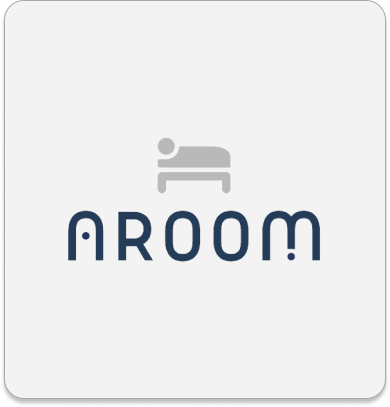
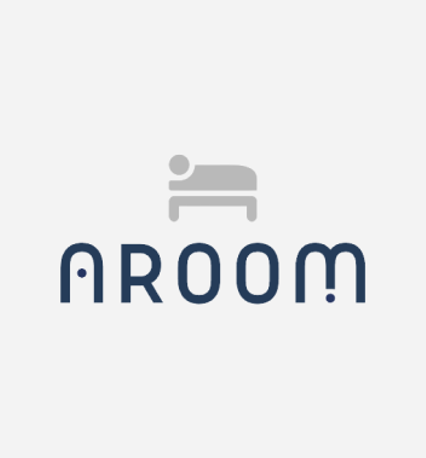
Feat: default image변경, 예약 confirm 추가

diff --git a/src/pages/placeDetail/PlaceDetail.page.tsx b/src/pages/placeDetail/PlaceDetail.page.tsx
@@ -1,5 +1,4 @@
 import { Header } from '@components/common/Header';
-// import { Footer } from '@components/common/Footer';
 import styled from 'styled-components';
 import { GrLinkPrevious } from 'react-icons/gr';
 import { theme } from '@styles/theme';
@@ -15,6 +14,8 @@ import { Loading } from '@components/common/Loading';
 import { useLocation } from 'react-router-dom';
 import { formatDate } from '@utils/useFormatDate';
 import { NeedLogin } from '@components/common/NeedLogin';
+import hotelDefaultImg from '@assets/images/hotelDefaultImg.png';
+import hotelDefaultImg2 from '@assets/images/hotelDefaultImg2.png';
 
 export interface IAccommodations {
   id: number;
@@ -127,7 +128,6 @@ export const PlaceDetail: React.FC = () => {
       if (isChecked) {
         await axios.post(
           `${process.env.REACT_APP_SERVER}/v1/accommodations/${id}/favorite`,
-          {},
           {
             headers: {
               'Content-Type': 'application/json',
@@ -160,7 +160,6 @@ export const PlaceDetail: React.FC = () => {
   //장바구니로 post
   const addCart = async (roomId: number) => {
     const confirm = window.confirm('장바구니에 추가하시겠습니까?');
-    // console.log(startDate, endDate);
     if (confirm) {
       try {
         const res = await axios.post(
@@ -206,7 +205,11 @@ export const PlaceDetail: React.FC = () => {
             </StyledSpan>
           </StyledBar>
 
-          <StyledImg src={accommodation.accommodationUrl} />
+          {accommodation.accommodationUrl ? (
+            <StyledImg src={accommodation.accommodationUrl} />
+          ) : (
+            <StyledImg src={hotelDefaultImg} alt="사진이 없습니다." />
+          )}
 
           <StyledMainTitle>
             {accommodation.accommodationName}
@@ -215,6 +218,7 @@ export const PlaceDetail: React.FC = () => {
               onClick={() => {
                 setIsChecked((prev) => {
                   const newChecked = !prev;
+                  console.log(newChecked);
                   toggleFavorite(id, newChecked);
                   return newChecked;
                 });
@@ -246,7 +250,14 @@ export const PlaceDetail: React.FC = () => {
           accommodation.roomInfoList.length > 0 ? (
             accommodation.roomInfoList.map((room) => (
               <StyledSubContainer key={room.id}>
-                <StyledDetailImg src={room.url} />
+                {room.url ? (
+                  <StyledDetailImg src={room.url} />
+                ) : (
+                  <StyledDetailImg
+                    src={hotelDefaultImg2}
+                    alt="사진이 없습니다."
+                  />
+                )}
                 <StyledDetail>
                   <StyledWrapper>
                     <StyledRoomTitle>{room.type}</StyledRoomTitle>

diff --git a/src/pages/reservation/Reservation.page.tsx b/src/pages/reservation/Reservation.page.tsx
@@ -32,37 +32,45 @@ export const Reservation: React.FC = () => {
   }, [location.state]);
 
   const handlePayment = async () => {
-    if (roomInfo && agreement) {
-      const data = {
-        roomList: [
-          {
-            roomId: roomInfo.id,
-            startDate: startDate,
-            endDate: endDate,
-            price: roomInfo.price,
-          },
-        ],
-        personnel,
-        agreement,
-        isFromCart: false, //장바구니 아닐땐 false
-      };
+    if (!roomInfo || !agreement) {
+      return;
+    }
 
-      try {
-        const response = await axios.post(
-          ` ${process.env.REACT_APP_SERVER}/v1/reservations`,
-          data,
-          {
-            headers: {
-              'Content-Type': 'application/json',
-              'Access-Token': accessToken,
-            },
+    const data = {
+      roomList: [
+        {
+          roomId: roomInfo.id,
+          startDate: startDate,
+          endDate: endDate,
+          price: roomInfo.price,
+        },
+      ],
+      personnel,
+      agreement,
+      isFromCart: false,
+    };
+
+    const confirm = window.confirm('결제 하시겠습니까?');
+    if (!confirm) {
+      return;
+    }
+
+    try {
+      const response = await axios.post(
+        `${process.env.REACT_APP_SERVER}/v1/reservations`,
+        data,
+        {
+          headers: {
+            'Content-Type': 'application/json',
+            'Access-Token': accessToken,
           },
-        );
-        console.log(response.data);
-        navigate('/confirm', { state: { data: response.data } });
-      } catch (error) {
-        console.error('결제 실패', error);
-      }
+        },
+      );
+
+      console.log(response.data);
+      navigate('/confirm', { state: { data: response.data } });
+    } catch (error) {
+      console.error('결제 실패', error);
     }
   };
 

diff --git a/src/pages/confirm/Confirm.page.tsx b/src/pages/confirm/Confirm.page.tsx
@@ -11,6 +11,7 @@ import {
   StyledBtnText,
   StyledButtonWrapper,
 } from '@pages/reservation/Reservation.page';
+import hotelDefaultImg from '@assets/images/hotelDefaultImg.png';
 
 interface RoomList {
   roomId: number;
@@ -75,7 +76,11 @@ export const Confirm: React.FC = () => {
             숙소 예약번호: {room.roomReservationNumber}
           </StyleDescription>
           <StyleSubWrapper>
-            <StyledMiniImage src="https://yaimg.yanolja.com/v5/2022/10/31/12/1280/635fc0f6abccc1.66460254.jpg" />
+            {room.roomImageUrl ? (
+              <StyledMiniImage src={room.roomImageUrl} />
+            ) : (
+              <StyledMiniImage src={hotelDefaultImg} alt="사진이 없습니다." />
+            )}
             <StyleDetail>
               <StyleRoomName>{room.type}</StyleRoomName>
               <StyledDetailDes>
